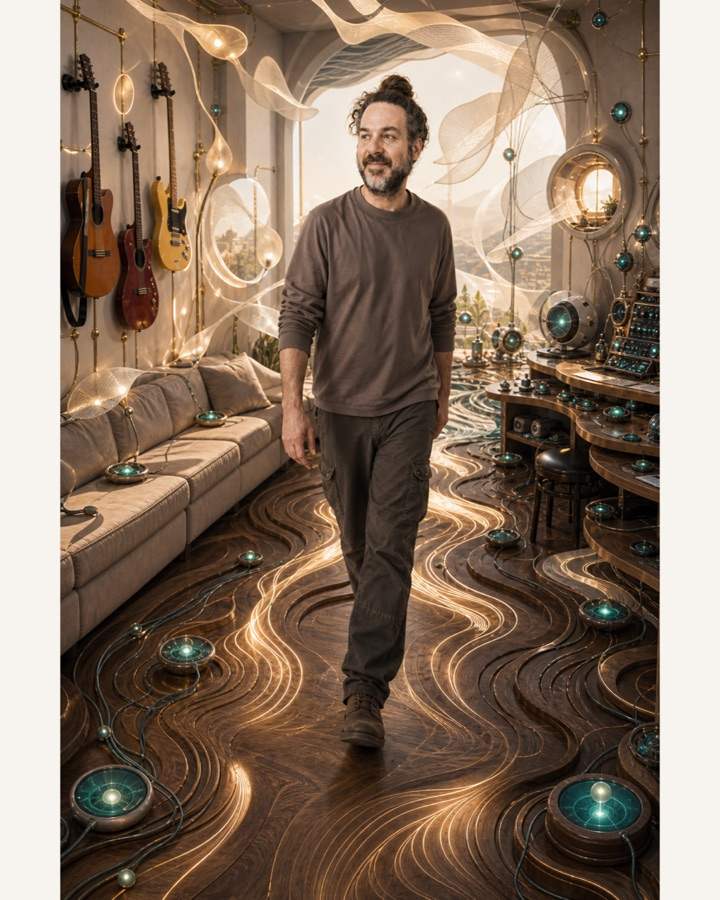
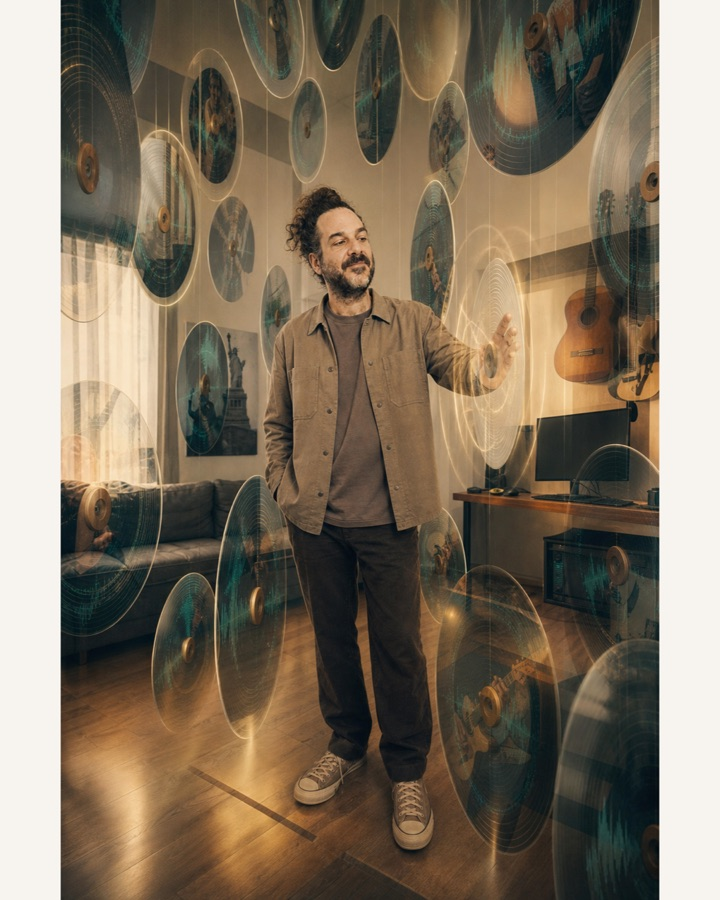
Hero deck: the automation-workshop image leaves the rotation
Claude-Session: https://claude.ai/code/session_01CkQMbz4qPwYocex1Fhyovh

diff --git a/src/components/Hero.tsx b/src/components/Hero.tsx
@@ -4,7 +4,7 @@ import './Hero.css'
 const PHOTOS = [
   `${import.meta.env.BASE_URL}portrait-800.webp`,
   ...Array.from(
-    { length: 16 },
+    { length: 15 },
     (_, i) =>
       `${import.meta.env.BASE_URL}hero/gen-${String(i + 1).padStart(2, '0')}.jpg`,
   ),
